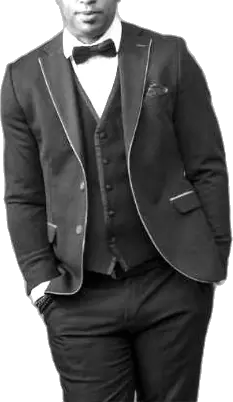
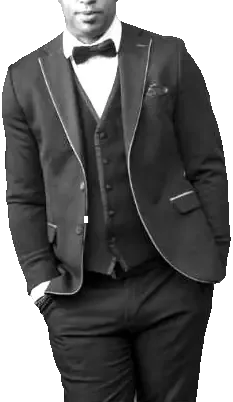
Réservation : ajout direct au panier billetterie + détourés à bords francs
- assets/cart.js : jeton public, tarifs de la séance, POST cart/current/items, ouverture de /cart
- repli automatique sur la page de la séance si l'ajout échoue
- détourés : alpha binarisé, suppression du fondu en dégradé

Claude-Session: https://claude.ai/code/session_01X364Qo7AsiwZQQzZaYjuUs

diff --git a/assets/app.js b/assets/app.js
@@ -1,4 +1,5 @@
 import { syncSoTicket } from './soticket.js';
+import { addToCart, warmCart } from './cart.js';
 import { EVENTS, INFO, ROOM, BILLETTERIE, CONTENT, NOCUT, img, srcset } from './data.js';
 const cut = n => n && !NOCUT.includes(n) ? `assets/img/cut/${n}.webp` : null;
 
@@ -167,12 +168,7 @@ const sheet = {
     const e = byId(id); if (!e) return;
     // Séance reliée à la billetterie officielle : on y va directement, séance déjà ouverte.
     // Tarif et nombre de places se choisissent une seule fois, sur la billetterie.
-    const occ = e.dates.find(x => x.d === d), set = occ && occ.sets.find(x => x.t === t);
-    if (set && set.link && bookable(setState(d, set))) {
-      window.open(set.link, '_blank', 'noopener');
-      toast(`Billetterie ouverte : ${fmt.full(d)}, set de ${fmt.time(t)}. Choisissez vos places.`);
-      return;
-    }
+    warmCart();
     const prefs = store.get('prefs', { qty: 2, rate: 'plein' });
     this.st = { e, d, t, qty: prefs.qty, rate: prefs.rate === 'jeune' && !e.jeune ? 'plein' : prefs.rate, step: 'form' };
     this.render();
@@ -198,9 +194,9 @@ const sheet = {
     if (step === 'handoff') {
       const url = this.link();
       this.el.innerHTML = `<div class="sheet-in">${head}
-        <div class="bt-memo is-big" role="status"><span class="sh-label">Billetterie ouverte dans un nouvel onglet</span><p>${this.memo()}</p>
-          <p class="fine">Paiement sécurisé sur billetterie.ducdeslombards.com · billets envoyés par e-mail.</p></div>
-        <div class="row-btns"><a class="btn solid" href="${url}" target="_blank" rel="noopener">Rouvrir la billetterie</a><button class="btn ghost" type="button" data-back>Modifier</button></div>
+        <div class="bt-memo is-big" role="status"><span class="sh-label">${this.st.added ? 'Ajouté au panier' : 'Billetterie ouverte dans un nouvel onglet'}</span><p>${this.st.added ? `<b>${this.st.qty} × ${BT_RATE[this.st.rate] || BT_RATE.plein}</b> · ${fmt.full(this.st.d)} à ${fmt.time(this.st.t)}. Votre panier est ouvert : il ne reste qu’à payer.` : this.memo()}</p>
+          <p class="fine">Paiement sécurisé sur billetterie.ducdeslombards.com · places gardées 30 min · billets envoyés par e-mail.</p></div>
+        <div class="row-btns"><a class="btn solid" href="${this.st.cartUrl || url}" target="_blank" rel="noopener">${this.st.added ? 'Ouvrir le panier' : 'Rouvrir la billetterie'}</a><button class="btn ghost" type="button" data-back>Modifier</button></div>
       </div>`;
       $('[data-close]', this.el).addEventListener('click', () => this.close());
       $('[data-back]', this.el).addEventListener('click', () => { this.st.step = 'form'; this.render(); });
@@ -239,13 +235,13 @@ const sheet = {
       : `<div class="field" style="margin:0"><label for="sh-mail">E-mail pour recevoir vos billets</label><input id="sh-mail" type="email" autocomplete="email" inputmode="email" placeholder="vous@exemple.fr" required></div>`;
     const total = this.price() * qty;
     const url = this.link();
-    const memo = url ? `<div class="bt-memo"><span class="sh-label">Sur la billetterie officielle</span><p>${this.memo()}</p></div>` : '';
+    const memo = url ? `<p class="fine">Vos places sont ajoutées directement au panier de la billetterie officielle.</p>` : '';
     this.el.innerHTML = `<div class="sheet-in">${head}${dateSeg}${setSeg}${rateSeg}
       <div class="qty"><div><div class="sh-label" style="margin:0">Places</div><span class="fine">Groupe de plus de 10 : <a href="privatiser.html">tarif groupe</a></span></div>
         <div class="stepper"><button type="button" data-q="-1" aria-label="Retirer une place">−</button><output class="num" aria-live="polite">${qty}</output><button type="button" data-q="1" aria-label="Ajouter une place">+</button></div></div>
       ${url ? memo : who}
       <div class="total"><span>Total</span><b class="num" data-total>${fmt.eur(total)}</b></div>
-      <button type="button" class="btn pay"><span class="lbl">${url ? 'Réserver sur la billetterie' : 'Réserver'} · ${fmt.eur(total)}</span><span class="spin" aria-hidden="true"></span></button>
+      <button type="button" class="btn pay"><span class="lbl">${url ? 'Ajouter au panier' : 'Réserver'} · ${fmt.eur(total)}</span><span class="spin" aria-hidden="true"></span></button>
       <p class="fine">Placement libre assis · ouverture des portes 30 min avant le set. Paiement sécurisé sur la billetterie du Duc. Billet nominatif envoyé par e-mail.</p>
     </div>`;
     this.bind();
@@ -264,7 +260,7 @@ const sheet = {
       this.st.qty = Math.min(10, Math.max(1, this.st.qty + +b.dataset.q));
       $('output', el).textContent = this.st.qty;
       const tot = fmt.eur(this.price() * this.st.qty);
-      $('[data-total]', el).textContent = tot; $('.pay .lbl', el).textContent = `${this.link() ? 'Réserver sur la billetterie' : 'Réserver'} · ${tot}`;
+      $('[data-total]', el).textContent = tot; $('.pay .lbl', el).textContent = `${this.link() ? 'Ajouter au panier' : 'Réserver'} · ${tot}`;
       const m = $('.bt-memo p', el); if (m) m.innerHTML = this.memo();
     }));
     $('[data-forget]', el)?.addEventListener('click', () => { store.set('user', null); this.render(); });
@@ -281,8 +277,18 @@ const sheet = {
     const url = this.link();
     if (url) {
       store.set('prefs', { qty: this.st.qty, rate: this.st.rate });
-      window.open(url, '_blank', 'noopener');
-      this.st.step = 'handoff'; this.render(); return;
+      const o = this.st.e.dates.find(x => x.d === this.st.d), set = o && o.sets.find(x => x.t === this.st.t);
+      // Onglet ouvert dans le geste du clic (anti-bloqueur), rempli une fois le panier prêt.
+      const w = window.open('', '_blank');
+      const btn = $('.pay', el); btn.classList.add('is-loading'); btn.disabled = true;
+      const go = (u, added) => {
+        if (w && !w.closed) w.location.href = u; else window.open(u, '_blank', 'noopener');
+        Object.assign(this.st, { step: 'handoff', added, cartUrl: added ? u : null }); this.render();
+      };
+      addToCart(set.sid, this.st.qty, this.st.rate)
+        .then(cartUrl => go(cartUrl, true))
+        .catch(() => go(url, false));
+      return;
     }
     if (mail) {
       if (!mail.checkValidity() || !mail.value.includes('.')) {

diff --git a/assets/cart.js b/assets/cart.js
@@ -1,0 +1,49 @@
+/*
+ * Ajout direct au panier de la billetterie officielle (billetterie.ducdeslombards.com, moteur Supersoniks).
+ *
+ * Parcours : on récupère le jeton public de la session billetterie (même cookie que le visiteur),
+ * on lit les tarifs de la séance, on ajoute N places au bon tarif, puis on ouvre /cart.
+ * Ça fonctionne quand le site est servi depuis ducdeslombards.com (même site que la billetterie :
+ * cookies partagés, CORS accepté). Sinon, repli automatique sur la page de la séance.
+ */
+import { BILLETTERIE } from './data.js';
+
+const B = BILLETTERIE.replace(/\/$/, '');
+const RATE_RE = { plein: /PLEIN/i, pjc: /R[ÉE]DUIT/i, jeune: /JEUNE/i };
+let tokenP = null;
+
+async function token() {
+  if (!tokenP) tokenP = fetch(B + '/cart', { credentials: 'include' })
+    .then(r => r.text())
+    .then(h => { const m = h.match(/token["']?\s*[=:]\s*["'](ey[^"']+)["']/i); if (!m) throw new Error('token'); return m[1]; })
+    .catch(e => { tokenP = null; throw e; });
+  return tokenP;
+}
+
+async function api(path, opts = {}) {
+  const tk = await token();
+  const r = await fetch(B + '/api/v2' + path, {
+    credentials: 'include', ...opts,
+    headers: { Authorization: 'Bearer ' + tk, Accept: 'application/json', ...(opts.body ? { 'Content-Type': 'application/json' } : {}) },
+  });
+  const j = await r.json().catch(() => null);
+  if (!r.ok || !j || j.success === false) throw new Error((j && j.messages && j.messages.map(m => m.content).join(' ')) || 'HTTP ' + r.status);
+  return j.data;
+}
+
+/** Ajoute qty places (tarif plein | pjc | jeune) de la séance sid. Renvoie l'URL du panier. */
+export async function addToCart(sid, qty, rate = 'plein') {
+  const s = await api(`/sessions/${sid}?features[]=prices&features[]=stock`);
+  const prices = (s.prices || []).filter(p => p.online !== false && p.price_available !== false);
+  const price = prices.find(p => RATE_RE[rate]?.test(p.title)) || prices.find(p => RATE_RE.plein.test(p.title)) || prices[0];
+  if (!price) throw new Error('Aucun tarif en vente');
+  const q = (s.stock?.details || []).find(d => d.has_available) || { quota_id: 1 };
+  await api('/cart/current/items', {
+    method: 'POST',
+    body: JSON.stringify({ items: [{ entity_type: 'event', entity_id: +sid, quantity: qty, price: { id: price.id }, quota: { id: q.quota_id } }], auto_seating: false }),
+  });
+  return B + '/cart';
+}
+
+/** Préchauffe le jeton (au survol / à l'ouverture du panneau) pour un ajout quasi instantané. */
+export function warmCart() { token().catch(() => {}); }

diff --git a/assets/site.css b/assets/site.css
@@ -709,3 +709,6 @@ main > section:last-child.sec { padding-bottom: var(--air); }
 .collage .marq, .collage .marq.m1, .collage .marq.m2 { z-index: 0 !important; pointer-events: none; }
 .collage .pc { z-index: 2 !important; }
 .collage .head, .collage .cta { z-index: 5 !important; }
+
+/* Détourés : bords francs, aucune transparence ni fondu */
+.cut, .pcut, .stage .cut, .ph-stage .pcut, img.cut { -webkit-mask-image: none !important; mask-image: none !important; }
